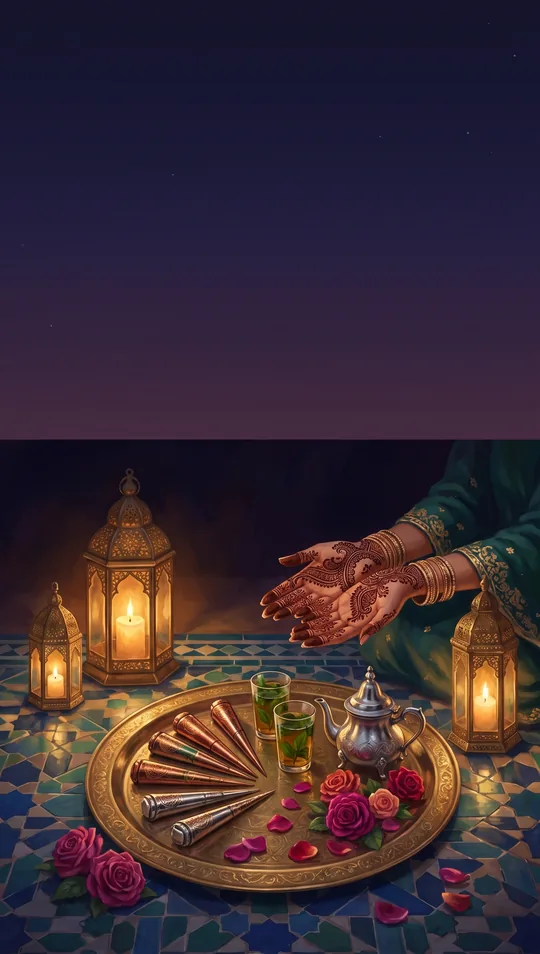
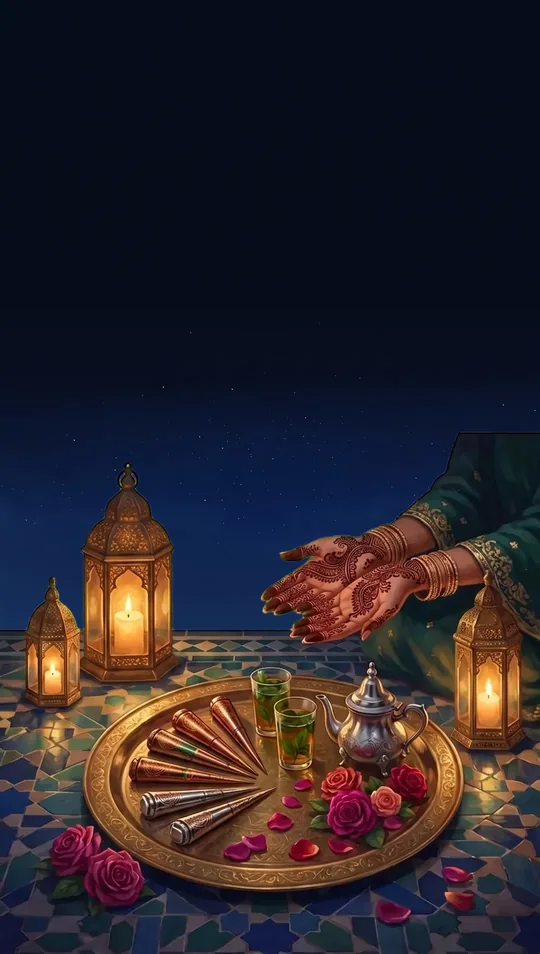
Carte « Scène par scène » : la vignette n'est plus coupée (fond du thème + sujet détouré)
La peinture nuits-2 gardait une bande sombre collée en ligne droite sur la scène, visible sur la carte
« Scène par scène » de l'accueil, dans le carrousel et dans le choix du format. La vignette (img/themes et
img/hd) est recomposée comme le moteur l'affiche désormais : fond calme du thème, sujet détouré posé entier au
bas de l'image. Outil business/tools/vignettes.py, cache des vignettes passé en v=7, og-sceau.jpg régénéré,
note dans la règle 10b.

Claude-Session: https://claude.ai/code/session_01UiQJJ8vYeH2uzX9VZmFkta

diff --git a/business/landing/formules/index.html b/business/landing/formules/index.html
@@ -40,7 +40,7 @@
         <h3>Essentiel</h3>
         <div class="amount">99 €</div>
         <p class="one">Un thème, vos textes, vos lieux parmi notre bibliothèque dessinée.</p>
-        <div class="strip"><figure><img src="/img/themes/conte-1.webp?v=6" alt="" loading="lazy"><figcaption>Accueil<small>prénoms, date</small></figcaption></figure><figure><img src="/img/lieux/conte-mairie.webp" alt="" loading="lazy"><figcaption>Mairie<small>notre bibliothèque</small></figcaption></figure><figure><img src="/img/lieux/conte-salle.webp" alt="" loading="lazy"><figcaption>Salle<small>notre bibliothèque</small></figcaption></figure><figure><img src="/img/themes/conte-4.webp?v=6" alt="" loading="lazy"><figcaption>Réponse<small>« Serez-vous des nôtres ? »</small></figcaption></figure></div><p class="strip-l">Vos lieux, choisis parmi 5 dessinés dans chaque thème.</p>
+        <div class="strip"><figure><img src="/img/themes/conte-1.webp?v=7" alt="" loading="lazy"><figcaption>Accueil<small>prénoms, date</small></figcaption></figure><figure><img src="/img/lieux/conte-mairie.webp" alt="" loading="lazy"><figcaption>Mairie<small>notre bibliothèque</small></figcaption></figure><figure><img src="/img/lieux/conte-salle.webp" alt="" loading="lazy"><figcaption>Salle<small>notre bibliothèque</small></figcaption></figure><figure><img src="/img/themes/conte-4.webp?v=7" alt="" loading="lazy"><figcaption>Réponse<small>« Serez-vous des nôtres ? »</small></figcaption></figure></div><p class="strip-l">Vos lieux, choisis parmi 5 dessinés dans chaque thème.</p>
         <ul class="feat"><li><svg viewBox="0 0 24 24" fill="none" stroke="currentColor" stroke-width="1.5" stroke-linecap="round" stroke-linejoin="round" aria-hidden="true"><path d="M12 3a9 9 0 1 0 0 18c1.2 0 2-.9 2-2 0-.6-.3-1-.6-1.4-.3-.4-.4-.8-.4-1.2 0-1 .9-1.9 2-1.9H17a4 4 0 0 0 4-4c0-4.4-4-7.5-9-7.5z"/><circle cx="7.5" cy="11" r="1"/><circle cx="10.5" cy="7.5" r="1"/><circle cx="15" cy="7.5" r="1"/></svg><span>Un thème parmi 5, dans le format de votre choix</span></li><li><svg viewBox="0 0 24 24" fill="none" stroke="currentColor" stroke-width="1.5" stroke-linecap="round" stroke-linejoin="round" aria-hidden="true"><rect x="3.5" y="5" width="17" height="15.5" rx="2"/><path d="M3.5 9.5h17M8 3v4M16 3v4"/></svg><span>2 événements</span></li><li><svg viewBox="0 0 24 24" fill="none" stroke="currentColor" stroke-width="1.5" stroke-linecap="round" stroke-linejoin="round" aria-hidden="true"><path d="M3 20h18M5 20V10l7-5 7 5v10"/><path d="M10 20v-5h4v5"/></svg><span>Vos lieux : notre bibliothèque dessinée (mairie, église, salle, jardin, plage)</span></li><li><svg viewBox="0 0 24 24" fill="none" stroke="currentColor" stroke-width="1.5" stroke-linecap="round" stroke-linejoin="round" aria-hidden="true"><rect x="3" y="6" width="18" height="13" rx="1.5"/><path d="m3.5 7 8.5 6.5L20.5 7"/><circle cx="12" cy="13.5" r="2.2"/></svg><span>Ouverture au sceau, musique, compte à rebours</span></li><li><svg viewBox="0 0 24 24" fill="none" stroke="currentColor" stroke-width="1.5" stroke-linecap="round" stroke-linejoin="round" aria-hidden="true"><path d="M4 5h16v11H9l-5 4z"/><path d="m9 10.5 2 2 4-4"/></svg><span>Réponses et tableau de bord</span></li><li><svg viewBox="0 0 24 24" fill="none" stroke="currentColor" stroke-width="1.5" stroke-linecap="round" stroke-linejoin="round" aria-hidden="true"><circle cx="12" cy="13" r="8"/><path d="M12 9v4l2.5 2.5M9.5 2.5h5"/></svg><span>Calendrier et itinéraire en un toucher</span></li><li><svg viewBox="0 0 24 24" fill="none" stroke="currentColor" stroke-width="1.5" stroke-linecap="round" stroke-linejoin="round" aria-hidden="true"><circle cx="12" cy="12" r="8.5"/><path d="M3.5 12h17M12 3.5c2.5 2.6 3.5 5.4 3.5 8.5s-1 5.9-3.5 8.5c-2.5-2.6-3.5-5.4-3.5-8.5s1-5.9 3.5-8.5z"/></svg><span>Français <b>ou</b> anglais</span></li><li><svg viewBox="0 0 24 24" fill="none" stroke="currentColor" stroke-width="1.5" stroke-linecap="round" stroke-linejoin="round" aria-hidden="true"><path d="M5 3h14M5 21h14M7 3c0 5 5 5 5 9s-5 4-5 9M17 3c0 5-5 5-5 9s5 4 5 9"/></svg><span>Prêt sous 48 h</span></li></ul>
         <a class="btn" href="/creer/?plan=essentiel" data-plan="essentiel">Choisir</a>
       </div>
@@ -48,7 +48,7 @@
         <h3>Signature <span class="tag">Recommandé</span></h3>
         <div class="amount">229 €</div>
         <p class="one">Votre vrai lieu, peint d'après votre photo, et un lien personnel par famille.</p>
-        <div class="strip"><figure><img src="/img/themes/conte-1.webp?v=6" alt="" loading="lazy"><figcaption>Accueil<small>par famille</small></figcaption></figure><figure><img src="/img/lieux/conte-mairie.webp" alt="" loading="lazy"><i class="ph" title="Peint d'après votre photo"><svg viewBox="0 0 24 24" fill="none" stroke="currentColor" stroke-width="1.6" stroke-linecap="round" stroke-linejoin="round"><path d="M4 8h3l2-2.5h6L17 8h3v11H4z"/><circle cx="12" cy="13" r="3.2"/></svg></i><figcaption>Votre mairie<small>d'après votre photo</small></figcaption></figure><figure><img src="/img/lieux/conte-salle.webp" alt="" loading="lazy"><figcaption>Salle<small>notre bibliothèque</small></figcaption></figure><figure><img src="/img/themes/conte-4.webp?v=6" alt="" loading="lazy"><figcaption>Réponse<small>FR et EN</small></figcaption></figure></div><p class="strip-l">Votre vrai lieu, peint d'après photo, et jusqu'à 6 événements.</p>
+        <div class="strip"><figure><img src="/img/themes/conte-1.webp?v=7" alt="" loading="lazy"><figcaption>Accueil<small>par famille</small></figcaption></figure><figure><img src="/img/lieux/conte-mairie.webp" alt="" loading="lazy"><i class="ph" title="Peint d'après votre photo"><svg viewBox="0 0 24 24" fill="none" stroke="currentColor" stroke-width="1.6" stroke-linecap="round" stroke-linejoin="round"><path d="M4 8h3l2-2.5h6L17 8h3v11H4z"/><circle cx="12" cy="13" r="3.2"/></svg></i><figcaption>Votre mairie<small>d'après votre photo</small></figcaption></figure><figure><img src="/img/lieux/conte-salle.webp" alt="" loading="lazy"><figcaption>Salle<small>notre bibliothèque</small></figcaption></figure><figure><img src="/img/themes/conte-4.webp?v=7" alt="" loading="lazy"><figcaption>Réponse<small>FR et EN</small></figcaption></figure></div><p class="strip-l">Votre vrai lieu, peint d'après photo, et jusqu'à 6 événements.</p>
         <ul class="feat"><li class="feat-incl"><b>Tout Essentiel</b><span>99 €</span><i>+</i></li><li><svg viewBox="0 0 24 24" fill="none" stroke="currentColor" stroke-width="1.5" stroke-linecap="round" stroke-linejoin="round" aria-hidden="true"><path d="M4 8h3l2-2.5h6L17 8h3v11H4z"/><circle cx="12" cy="13" r="3.2"/></svg><span><b>Votre vrai lieu, peint d'après votre photo</b></span></li><li><svg viewBox="0 0 24 24" fill="none" stroke="currentColor" stroke-width="1.5" stroke-linecap="round" stroke-linejoin="round" aria-hidden="true"><rect x="3.5" y="5" width="17" height="15.5" rx="2"/><path d="M3.5 9.5h17M8 3v4M16 3v4"/></svg><span>Jusqu'à 6 événements</span></li><li><svg viewBox="0 0 24 24" fill="none" stroke="currentColor" stroke-width="1.5" stroke-linecap="round" stroke-linejoin="round" aria-hidden="true"><circle cx="9" cy="8" r="3"/><circle cx="17" cy="9" r="2.4"/><path d="M3.5 19a5.5 5.5 0 0 1 11 0M14.5 19a4 4 0 0 1 6.5-3"/></svg><span>Un lien personnel par famille</span></li><li><svg viewBox="0 0 24 24" fill="none" stroke="currentColor" stroke-width="1.5" stroke-linecap="round" stroke-linejoin="round" aria-hidden="true"><circle cx="12" cy="12" r="8.5"/><path d="M3.5 12h17M12 3.5c2.5 2.6 3.5 5.4 3.5 8.5s-1 5.9-3.5 8.5c-2.5-2.6-3.5-5.4-3.5-8.5s1-5.9 3.5-8.5z"/></svg><span>Français <b>et</b> anglais</span></li><li><svg viewBox="0 0 24 24" fill="none" stroke="currentColor" stroke-width="1.5" stroke-linecap="round" stroke-linejoin="round" aria-hidden="true"><rect x="7" y="2.5" width="10" height="19" rx="2"/><path d="m11 9 3.5 2.5L11 14z"/></svg><span>Save-the-date et vidéo pour vos statuts</span></li><li><svg viewBox="0 0 24 24" fill="none" stroke="currentColor" stroke-width="1.5" stroke-linecap="round" stroke-linejoin="round" aria-hidden="true"><path d="M5 3h14M5 21h14M7 3c0 5 5 5 5 9s-5 4-5 9M17 3c0 5-5 5-5 9s5 4 5 9"/></svg><span>Prêt en 3 à 5 jours</span></li></ul>
         <a class="btn solid" href="/creer/?plan=signature" data-plan="signature">Choisir</a>
       </div>
@@ -56,7 +56,7 @@
         <h3>Couture</h3>
         <div class="amount">590 € <small>et plus</small></div>
         <p class="one">Un univers créé pour vous, tous vos lieux peints, une direction artistique dédiée.</p>
-        <div class="strip"><figure><img src="/img/themes/nuits-1.webp?v=6" alt="" loading="lazy"><i class="ph" title="Peint d'après votre photo"><svg viewBox="0 0 24 24" fill="none" stroke="currentColor" stroke-width="1.6" stroke-linecap="round" stroke-linejoin="round"><path d="M4 8h3l2-2.5h6L17 8h3v11H4z"/><circle cx="12" cy="13" r="3.2"/></svg></i><figcaption>Accueil<small>votre style</small></figcaption></figure><figure><img src="/img/lieux/nuits-mairie.webp" alt="" loading="lazy"><i class="ph" title="Peint d'après votre photo"><svg viewBox="0 0 24 24" fill="none" stroke="currentColor" stroke-width="1.6" stroke-linecap="round" stroke-linejoin="round"><path d="M4 8h3l2-2.5h6L17 8h3v11H4z"/><circle cx="12" cy="13" r="3.2"/></svg></i><figcaption>Votre mairie<small>d'après photo</small></figcaption></figure><figure><img src="/img/lieux/nuits-salle.webp" alt="" loading="lazy"><i class="ph" title="Peint d'après votre photo"><svg viewBox="0 0 24 24" fill="none" stroke="currentColor" stroke-width="1.6" stroke-linecap="round" stroke-linejoin="round"><path d="M4 8h3l2-2.5h6L17 8h3v11H4z"/><circle cx="12" cy="13" r="3.2"/></svg></i><figcaption>Votre salle<small>d'après photo</small></figcaption></figure><figure><img src="/img/themes/nuits-4.webp?v=6" alt="" loading="lazy"><figcaption>Réponse<small>toutes langues</small></figcaption></figure></div><p class="strip-l">Un univers dessiné pour vous, tous vos lieux peints.</p>
+        <div class="strip"><figure><img src="/img/themes/nuits-1.webp?v=7" alt="" loading="lazy"><i class="ph" title="Peint d'après votre photo"><svg viewBox="0 0 24 24" fill="none" stroke="currentColor" stroke-width="1.6" stroke-linecap="round" stroke-linejoin="round"><path d="M4 8h3l2-2.5h6L17 8h3v11H4z"/><circle cx="12" cy="13" r="3.2"/></svg></i><figcaption>Accueil<small>votre style</small></figcaption></figure><figure><img src="/img/lieux/nuits-mairie.webp" alt="" loading="lazy"><i class="ph" title="Peint d'après votre photo"><svg viewBox="0 0 24 24" fill="none" stroke="currentColor" stroke-width="1.6" stroke-linecap="round" stroke-linejoin="round"><path d="M4 8h3l2-2.5h6L17 8h3v11H4z"/><circle cx="12" cy="13" r="3.2"/></svg></i><figcaption>Votre mairie<small>d'après photo</small></figcaption></figure><figure><img src="/img/lieux/nuits-salle.webp" alt="" loading="lazy"><i class="ph" title="Peint d'après votre photo"><svg viewBox="0 0 24 24" fill="none" stroke="currentColor" stroke-width="1.6" stroke-linecap="round" stroke-linejoin="round"><path d="M4 8h3l2-2.5h6L17 8h3v11H4z"/><circle cx="12" cy="13" r="3.2"/></svg></i><figcaption>Votre salle<small>d'après photo</small></figcaption></figure><figure><img src="/img/themes/nuits-4.webp?v=7" alt="" loading="lazy"><figcaption>Réponse<small>toutes langues</small></figcaption></figure></div><p class="strip-l">Un univers dessiné pour vous, tous vos lieux peints.</p>
         <ul class="feat"><li class="feat-incl"><b>Tout Signature</b><span>229 €</span><i>+</i></li><li><svg viewBox="0 0 24 24" fill="none" stroke="currentColor" stroke-width="1.5" stroke-linecap="round" stroke-linejoin="round" aria-hidden="true"><path d="M4 20h4L19 9l-4-4L4 16z"/><path d="m13.5 6.5 4 4"/></svg><span>Un univers dessiné pour vous</span></li><li><svg viewBox="0 0 24 24" fill="none" stroke="currentColor" stroke-width="1.5" stroke-linecap="round" stroke-linejoin="round" aria-hidden="true"><path d="M4 8h3l2-2.5h6L17 8h3v11H4z"/><circle cx="12" cy="13" r="3.2"/></svg><span><b>Tous</b> vos lieux peints d'après photos</span></li><li><svg viewBox="0 0 24 24" fill="none" stroke="currentColor" stroke-width="1.5" stroke-linecap="round" stroke-linejoin="round" aria-hidden="true"><path d="M7 9c-2 0-3.5 1.3-3.5 3S5 15 7 15c3.5 0 6.5-6 10-6 2 0 3.5 1.3 3.5 3S19 15 17 15c-3.5 0-6.5-6-10-6z"/></svg><span>Événements et langues illimités</span></li><li><svg viewBox="0 0 24 24" fill="none" stroke="currentColor" stroke-width="1.5" stroke-linecap="round" stroke-linejoin="round" aria-hidden="true"><rect x="3" y="7" width="18" height="13" rx="2"/><path d="M8 7V5a2 2 0 0 1 2-2h4a2 2 0 0 1 2 2v2M3 12h18"/></svg><span>Accès pour votre wedding planner</span></li><li><svg viewBox="0 0 24 24" fill="none" stroke="currentColor" stroke-width="1.5" stroke-linecap="round" stroke-linejoin="round" aria-hidden="true"><path d="M12 20h9"/><path d="M16.5 3.5a2.1 2.1 0 0 1 3 3L7 19l-4 1 1-4z"/></svg><span>Retouches illimitées pendant 3 semaines</span></li><li><svg viewBox="0 0 24 24" fill="none" stroke="currentColor" stroke-width="1.5" stroke-linecap="round" stroke-linejoin="round" aria-hidden="true"><path d="M5 3h14M5 21h14M7 3c0 5 5 5 5 9s-5 4-5 9M17 3c0 5-5 5-5 9s5 4 5 9"/></svg><span>Calendrier fixé ensemble</span></li></ul>
         <a class="btn" href="/contact/?plan=couture" data-plan="couture">Nous écrire</a>
       </div>

diff --git a/business/site/formules/index.html b/business/site/formules/index.html
@@ -40,7 +40,7 @@
         <h3>Essentiel</h3>
         <div class="amount">99 €</div>
         <p class="one">Un thème, vos textes, vos lieux parmi notre bibliothèque dessinée.</p>
-        <div class="strip"><figure><img src="/img/themes/conte-1.webp?v=6" alt="" loading="lazy"><figcaption>Accueil<small>prénoms, date</small></figcaption></figure><figure><img src="/img/lieux/conte-mairie.webp" alt="" loading="lazy"><figcaption>Mairie<small>notre bibliothèque</small></figcaption></figure><figure><img src="/img/lieux/conte-salle.webp" alt="" loading="lazy"><figcaption>Salle<small>notre bibliothèque</small></figcaption></figure><figure><img src="/img/themes/conte-4.webp?v=6" alt="" loading="lazy"><figcaption>Réponse<small>« Serez-vous des nôtres ? »</small></figcaption></figure></div><p class="strip-l">Vos lieux, choisis parmi 5 dessinés dans chaque thème.</p>
+        <div class="strip"><figure><img src="/img/themes/conte-1.webp?v=7" alt="" loading="lazy"><figcaption>Accueil<small>prénoms, date</small></figcaption></figure><figure><img src="/img/lieux/conte-mairie.webp" alt="" loading="lazy"><figcaption>Mairie<small>notre bibliothèque</small></figcaption></figure><figure><img src="/img/lieux/conte-salle.webp" alt="" loading="lazy"><figcaption>Salle<small>notre bibliothèque</small></figcaption></figure><figure><img src="/img/themes/conte-4.webp?v=7" alt="" loading="lazy"><figcaption>Réponse<small>« Serez-vous des nôtres ? »</small></figcaption></figure></div><p class="strip-l">Vos lieux, choisis parmi 5 dessinés dans chaque thème.</p>
         <ul class="feat"><li><svg viewBox="0 0 24 24" fill="none" stroke="currentColor" stroke-width="1.5" stroke-linecap="round" stroke-linejoin="round" aria-hidden="true"><path d="M12 3a9 9 0 1 0 0 18c1.2 0 2-.9 2-2 0-.6-.3-1-.6-1.4-.3-.4-.4-.8-.4-1.2 0-1 .9-1.9 2-1.9H17a4 4 0 0 0 4-4c0-4.4-4-7.5-9-7.5z"/><circle cx="7.5" cy="11" r="1"/><circle cx="10.5" cy="7.5" r="1"/><circle cx="15" cy="7.5" r="1"/></svg><span>Un thème parmi 5, dans le format de votre choix</span></li><li><svg viewBox="0 0 24 24" fill="none" stroke="currentColor" stroke-width="1.5" stroke-linecap="round" stroke-linejoin="round" aria-hidden="true"><rect x="3.5" y="5" width="17" height="15.5" rx="2"/><path d="M3.5 9.5h17M8 3v4M16 3v4"/></svg><span>2 événements</span></li><li><svg viewBox="0 0 24 24" fill="none" stroke="currentColor" stroke-width="1.5" stroke-linecap="round" stroke-linejoin="round" aria-hidden="true"><path d="M3 20h18M5 20V10l7-5 7 5v10"/><path d="M10 20v-5h4v5"/></svg><span>Vos lieux : notre bibliothèque dessinée (mairie, église, salle, jardin, plage)</span></li><li><svg viewBox="0 0 24 24" fill="none" stroke="currentColor" stroke-width="1.5" stroke-linecap="round" stroke-linejoin="round" aria-hidden="true"><rect x="3" y="6" width="18" height="13" rx="1.5"/><path d="m3.5 7 8.5 6.5L20.5 7"/><circle cx="12" cy="13.5" r="2.2"/></svg><span>Ouverture au sceau, musique, compte à rebours</span></li><li><svg viewBox="0 0 24 24" fill="none" stroke="currentColor" stroke-width="1.5" stroke-linecap="round" stroke-linejoin="round" aria-hidden="true"><path d="M4 5h16v11H9l-5 4z"/><path d="m9 10.5 2 2 4-4"/></svg><span>Réponses et tableau de bord</span></li><li><svg viewBox="0 0 24 24" fill="none" stroke="currentColor" stroke-width="1.5" stroke-linecap="round" stroke-linejoin="round" aria-hidden="true"><circle cx="12" cy="13" r="8"/><path d="M12 9v4l2.5 2.5M9.5 2.5h5"/></svg><span>Calendrier et itinéraire en un toucher</span></li><li><svg viewBox="0 0 24 24" fill="none" stroke="currentColor" stroke-width="1.5" stroke-linecap="round" stroke-linejoin="round" aria-hidden="true"><circle cx="12" cy="12" r="8.5"/><path d="M3.5 12h17M12 3.5c2.5 2.6 3.5 5.4 3.5 8.5s-1 5.9-3.5 8.5c-2.5-2.6-3.5-5.4-3.5-8.5s1-5.9 3.5-8.5z"/></svg><span>Français <b>ou</b> anglais</span></li><li><svg viewBox="0 0 24 24" fill="none" stroke="currentColor" stroke-width="1.5" stroke-linecap="round" stroke-linejoin="round" aria-hidden="true"><path d="M5 3h14M5 21h14M7 3c0 5 5 5 5 9s-5 4-5 9M17 3c0 5-5 5-5 9s5 4 5 9"/></svg><span>Prêt sous 48 h</span></li></ul>
         <a class="btn" href="/creer/?plan=essentiel" data-plan="essentiel">Choisir</a>
       </div>
@@ -48,7 +48,7 @@
         <h3>Signature <span class="tag">Recommandé</span></h3>
         <div class="amount">229 €</div>
         <p class="one">Votre vrai lieu, peint d'après votre photo, et un lien personnel par famille.</p>
-        <div class="strip"><figure><img src="/img/themes/conte-1.webp?v=6" alt="" loading="lazy"><figcaption>Accueil<small>par famille</small></figcaption></figure><figure><img src="/img/lieux/conte-mairie.webp" alt="" loading="lazy"><i class="ph" title="Peint d'après votre photo"><svg viewBox="0 0 24 24" fill="none" stroke="currentColor" stroke-width="1.6" stroke-linecap="round" stroke-linejoin="round"><path d="M4 8h3l2-2.5h6L17 8h3v11H4z"/><circle cx="12" cy="13" r="3.2"/></svg></i><figcaption>Votre mairie<small>d'après votre photo</small></figcaption></figure><figure><img src="/img/lieux/conte-salle.webp" alt="" loading="lazy"><figcaption>Salle<small>notre bibliothèque</small></figcaption></figure><figure><img src="/img/themes/conte-4.webp?v=6" alt="" loading="lazy"><figcaption>Réponse<small>FR et EN</small></figcaption></figure></div><p class="strip-l">Votre vrai lieu, peint d'après photo, et jusqu'à 6 événements.</p>
+        <div class="strip"><figure><img src="/img/themes/conte-1.webp?v=7" alt="" loading="lazy"><figcaption>Accueil<small>par famille</small></figcaption></figure><figure><img src="/img/lieux/conte-mairie.webp" alt="" loading="lazy"><i class="ph" title="Peint d'après votre photo"><svg viewBox="0 0 24 24" fill="none" stroke="currentColor" stroke-width="1.6" stroke-linecap="round" stroke-linejoin="round"><path d="M4 8h3l2-2.5h6L17 8h3v11H4z"/><circle cx="12" cy="13" r="3.2"/></svg></i><figcaption>Votre mairie<small>d'après votre photo</small></figcaption></figure><figure><img src="/img/lieux/conte-salle.webp" alt="" loading="lazy"><figcaption>Salle<small>notre bibliothèque</small></figcaption></figure><figure><img src="/img/themes/conte-4.webp?v=7" alt="" loading="lazy"><figcaption>Réponse<small>FR et EN</small></figcaption></figure></div><p class="strip-l">Votre vrai lieu, peint d'après photo, et jusqu'à 6 événements.</p>
         <ul class="feat"><li class="feat-incl"><b>Tout Essentiel</b><span>99 €</span><i>+</i></li><li><svg viewBox="0 0 24 24" fill="none" stroke="currentColor" stroke-width="1.5" stroke-linecap="round" stroke-linejoin="round" aria-hidden="true"><path d="M4 8h3l2-2.5h6L17 8h3v11H4z"/><circle cx="12" cy="13" r="3.2"/></svg><span><b>Votre vrai lieu, peint d'après votre photo</b></span></li><li><svg viewBox="0 0 24 24" fill="none" stroke="currentColor" stroke-width="1.5" stroke-linecap="round" stroke-linejoin="round" aria-hidden="true"><rect x="3.5" y="5" width="17" height="15.5" rx="2"/><path d="M3.5 9.5h17M8 3v4M16 3v4"/></svg><span>Jusqu'à 6 événements</span></li><li><svg viewBox="0 0 24 24" fill="none" stroke="currentColor" stroke-width="1.5" stroke-linecap="round" stroke-linejoin="round" aria-hidden="true"><circle cx="9" cy="8" r="3"/><circle cx="17" cy="9" r="2.4"/><path d="M3.5 19a5.5 5.5 0 0 1 11 0M14.5 19a4 4 0 0 1 6.5-3"/></svg><span>Un lien personnel par famille</span></li><li><svg viewBox="0 0 24 24" fill="none" stroke="currentColor" stroke-width="1.5" stroke-linecap="round" stroke-linejoin="round" aria-hidden="true"><circle cx="12" cy="12" r="8.5"/><path d="M3.5 12h17M12 3.5c2.5 2.6 3.5 5.4 3.5 8.5s-1 5.9-3.5 8.5c-2.5-2.6-3.5-5.4-3.5-8.5s1-5.9 3.5-8.5z"/></svg><span>Français <b>et</b> anglais</span></li><li><svg viewBox="0 0 24 24" fill="none" stroke="currentColor" stroke-width="1.5" stroke-linecap="round" stroke-linejoin="round" aria-hidden="true"><rect x="7" y="2.5" width="10" height="19" rx="2"/><path d="m11 9 3.5 2.5L11 14z"/></svg><span>Save-the-date et vidéo pour vos statuts</span></li><li><svg viewBox="0 0 24 24" fill="none" stroke="currentColor" stroke-width="1.5" stroke-linecap="round" stroke-linejoin="round" aria-hidden="true"><path d="M5 3h14M5 21h14M7 3c0 5 5 5 5 9s-5 4-5 9M17 3c0 5-5 5-5 9s5 4 5 9"/></svg><span>Prêt en 3 à 5 jours</span></li></ul>
         <a class="btn solid" href="/creer/?plan=signature" data-plan="signature">Choisir</a>
       </div>
@@ -56,7 +56,7 @@
         <h3>Couture</h3>
         <div class="amount">590 € <small>et plus</small></div>
         <p class="one">Un univers créé pour vous, tous vos lieux peints, une direction artistique dédiée.</p>
-        <div class="strip"><figure><img src="/img/themes/nuits-1.webp?v=6" alt="" loading="lazy"><i class="ph" title="Peint d'après votre photo"><svg viewBox="0 0 24 24" fill="none" stroke="currentColor" stroke-width="1.6" stroke-linecap="round" stroke-linejoin="round"><path d="M4 8h3l2-2.5h6L17 8h3v11H4z"/><circle cx="12" cy="13" r="3.2"/></svg></i><figcaption>Accueil<small>votre style</small></figcaption></figure><figure><img src="/img/lieux/nuits-mairie.webp" alt="" loading="lazy"><i class="ph" title="Peint d'après votre photo"><svg viewBox="0 0 24 24" fill="none" stroke="currentColor" stroke-width="1.6" stroke-linecap="round" stroke-linejoin="round"><path d="M4 8h3l2-2.5h6L17 8h3v11H4z"/><circle cx="12" cy="13" r="3.2"/></svg></i><figcaption>Votre mairie<small>d'après photo</small></figcaption></figure><figure><img src="/img/lieux/nuits-salle.webp" alt="" loading="lazy"><i class="ph" title="Peint d'après votre photo"><svg viewBox="0 0 24 24" fill="none" stroke="currentColor" stroke-width="1.6" stroke-linecap="round" stroke-linejoin="round"><path d="M4 8h3l2-2.5h6L17 8h3v11H4z"/><circle cx="12" cy="13" r="3.2"/></svg></i><figcaption>Votre salle<small>d'après photo</small></figcaption></figure><figure><img src="/img/themes/nuits-4.webp?v=6" alt="" loading="lazy"><figcaption>Réponse<small>toutes langues</small></figcaption></figure></div><p class="strip-l">Un univers dessiné pour vous, tous vos lieux peints.</p>
+        <div class="strip"><figure><img src="/img/themes/nuits-1.webp?v=7" alt="" loading="lazy"><i class="ph" title="Peint d'après votre photo"><svg viewBox="0 0 24 24" fill="none" stroke="currentColor" stroke-width="1.6" stroke-linecap="round" stroke-linejoin="round"><path d="M4 8h3l2-2.5h6L17 8h3v11H4z"/><circle cx="12" cy="13" r="3.2"/></svg></i><figcaption>Accueil<small>votre style</small></figcaption></figure><figure><img src="/img/lieux/nuits-mairie.webp" alt="" loading="lazy"><i class="ph" title="Peint d'après votre photo"><svg viewBox="0 0 24 24" fill="none" stroke="currentColor" stroke-width="1.6" stroke-linecap="round" stroke-linejoin="round"><path d="M4 8h3l2-2.5h6L17 8h3v11H4z"/><circle cx="12" cy="13" r="3.2"/></svg></i><figcaption>Votre mairie<small>d'après photo</small></figcaption></figure><figure><img src="/img/lieux/nuits-salle.webp" alt="" loading="lazy"><i class="ph" title="Peint d'après votre photo"><svg viewBox="0 0 24 24" fill="none" stroke="currentColor" stroke-width="1.6" stroke-linecap="round" stroke-linejoin="round"><path d="M4 8h3l2-2.5h6L17 8h3v11H4z"/><circle cx="12" cy="13" r="3.2"/></svg></i><figcaption>Votre salle<small>d'après photo</small></figcaption></figure><figure><img src="/img/themes/nuits-4.webp?v=7" alt="" loading="lazy"><figcaption>Réponse<small>toutes langues</small></figcaption></figure></div><p class="strip-l">Un univers dessiné pour vous, tous vos lieux peints.</p>
         <ul class="feat"><li class="feat-incl"><b>Tout Signature</b><span>229 €</span><i>+</i></li><li><svg viewBox="0 0 24 24" fill="none" stroke="currentColor" stroke-width="1.5" stroke-linecap="round" stroke-linejoin="round" aria-hidden="true"><path d="M4 20h4L19 9l-4-4L4 16z"/><path d="m13.5 6.5 4 4"/></svg><span>Un univers dessiné pour vous</span></li><li><svg viewBox="0 0 24 24" fill="none" stroke="currentColor" stroke-width="1.5" stroke-linecap="round" stroke-linejoin="round" aria-hidden="true"><path d="M4 8h3l2-2.5h6L17 8h3v11H4z"/><circle cx="12" cy="13" r="3.2"/></svg><span><b>Tous</b> vos lieux peints d'après photos</span></li><li><svg viewBox="0 0 24 24" fill="none" stroke="currentColor" stroke-width="1.5" stroke-linecap="round" stroke-linejoin="round" aria-hidden="true"><path d="M7 9c-2 0-3.5 1.3-3.5 3S5 15 7 15c3.5 0 6.5-6 10-6 2 0 3.5 1.3 3.5 3S19 15 17 15c-3.5 0-6.5-6-10-6z"/></svg><span>Événements et langues illimités</span></li><li><svg viewBox="0 0 24 24" fill="none" stroke="currentColor" stroke-width="1.5" stroke-linecap="round" stroke-linejoin="round" aria-hidden="true"><rect x="3" y="7" width="18" height="13" rx="2"/><path d="M8 7V5a2 2 0 0 1 2-2h4a2 2 0 0 1 2 2v2M3 12h18"/></svg><span>Accès pour votre wedding planner</span></li><li><svg viewBox="0 0 24 24" fill="none" stroke="currentColor" stroke-width="1.5" stroke-linecap="round" stroke-linejoin="round" aria-hidden="true"><path d="M12 20h9"/><path d="M16.5 3.5a2.1 2.1 0 0 1 3 3L7 19l-4 1 1-4z"/></svg><span>Retouches illimitées pendant 3 semaines</span></li><li><svg viewBox="0 0 24 24" fill="none" stroke="currentColor" stroke-width="1.5" stroke-linecap="round" stroke-linejoin="round" aria-hidden="true"><path d="M5 3h14M5 21h14M7 3c0 5 5 5 5 9s-5 4-5 9M17 3c0 5-5 5-5 9s5 4 5 9"/></svg><span>Calendrier fixé ensemble</span></li></ul>
         <a class="btn" href="/contact/?plan=couture" data-plan="couture">Nous écrire</a>
       </div>

diff --git a/business/landing/vitrine.js b/business/landing/vitrine.js
@@ -108,7 +108,7 @@
   const CREAS=LONGS.filter(l=>KEYS.includes(l.k)).map(l=>{ const t=THEMES[l.k]; return Object.assign({},l,{kind:'long',label:t.name,desc:l.couple+' · '+l.desc,href:'/d/'+l.slug+'/',tag:t.name,font:t.font,size:t.size,italic:t.italic,upper:t.upper,stack:t.stack,img:()=>`/img/reel/long-${l.k}.webp`}); });
   // carrousel de l'accueil : un thème qui a sa démo en grand tableau y passe sous cette forme, pas deux fois
   KEYS.filter(k=>!LONGS.some(l=>l.k===k)).forEach(k=>{ const t=THEMES[k], d=DEMOS0.find(x=>x.theme===k&&x.slug!=='yasmine-karim');
-    CREAS.push(Object.assign({},t,{kind:'pages',k,label:t.name,desc:(t.style!==t.name?t.style+' · ':'')+t.short,href:d?'/d/'+d.slug+'/':'',tag:t.name,img:i=>`/img/themes/${k}-${i}.webp?v=6`})); });
+    CREAS.push(Object.assign({},t,{kind:'pages',k,label:t.name,desc:(t.style!==t.name?t.style+' · ':'')+t.short,href:d?'/d/'+d.slug+'/':'',tag:t.name,img:i=>`/img/themes/${k}-${i}.webp?v=7`})); });
   // notre faire-part reel : les vrais lieux du couple, peints et animes (demo Yasmine & Karim)
   CREAS.push({kind:'pages',k:'yk',label:'Yasmine & Karim',desc:'Leurs vrais lieux, peints et animés : mairie, salle, ville',href:'/d/yasmine-karim/',tag:'Lieux réels peints',
     couple:'Yasmine & Karim',font:'"Great Vibes",cursive',color:'#2c2114',ey:'#8a6a2c',tx:'#5a4632',light:true,img:i=>`/img/reel/yk-${i}.webp`,
@@ -154,7 +154,7 @@
   // une carte par thème, avec ses deux formats : « scène par scène » (démo pages) et « grand tableau » (démo long)
   const card=(k)=>{ const t=THEMES[k], ds=DEMOS.find(x=>x.theme===k&&x.layout!=='long'), dl=DEMOS.find(x=>x.theme===k&&x.layout==='long');
     const m=document.createElement('div'); m.className='model'; m.dataset.theme=k; m.dataset.style=t.style;
-    m.innerHTML=`<a class="pic" href="/d/${esc((ds||dl).slug)}/" target="_blank" rel="noopener" aria-label="Ouvrir le faire-part ${esc(t.name)}"><img src="/img/themes/${k}-1.webp?v=6" alt="" loading="lazy"><img class="pic2" src="/img/themes/${k}-2.webp?v=6" alt="" loading="lazy" aria-hidden="true"><span class="cn" style="${esc(`font-family:${t.font};${t.italic?'font-style:italic;':''}${t.upper?'text-transform:uppercase;letter-spacing:.1em;font-size:19px;':''}`)}">${esc(t.couple)}</span></a><div class="meta"><div><h3>${esc(t.name)}</h3><p class="style">${esc(t.style+' · '+t.short)}</p></div>
+    m.innerHTML=`<a class="pic" href="/d/${esc((ds||dl).slug)}/" target="_blank" rel="noopener" aria-label="Ouvrir le faire-part ${esc(t.name)}"><img src="/img/themes/${k}-1.webp?v=7" alt="" loading="lazy"><img class="pic2" src="/img/themes/${k}-2.webp?v=7" alt="" loading="lazy" aria-hidden="true"><span class="cn" style="${esc(`font-family:${t.font};${t.italic?'font-style:italic;':''}${t.upper?'text-transform:uppercase;letter-spacing:.1em;font-size:19px;':''}`)}">${esc(t.couple)}</span></a><div class="meta"><div><h3>${esc(t.name)}</h3><p class="style">${esc(t.style+' · '+t.short)}</p></div>
       <div class="fmts">${ds?`<a href="/d/${esc(ds.slug)}/" target="_blank" rel="noopener"><b>Scène par scène</b><span>${esc(ds.couple)}</span></a>`:''}${dl?`<a href="/d/${esc(dl.slug)}/" target="_blank" rel="noopener"><b>Grand tableau</b><span>${esc(dl.couple)}</span></a>`:''}</div>
       <div class="acts"><a class="go" href="/creer/?theme=${esc(k)}">Composer →</a></div></div>`;
     models.appendChild(m); };
@@ -194,10 +194,10 @@
   opt($('cOpen'),OPENS,'op','',(b,o)=>{ b.className='op-card'; b.innerHTML=`<b>${o.name}</b><small>${o.sub}</small>`; });
   opt($('cReveal'),REVEALS,'rvl','',(b,o)=>{ b.className='op-card'; b.innerHTML=`<b>${o.name}</b><small>${o.sub}</small>`; });
   $('cReveal').addEventListener('click',e=>{ if(e.target.closest('button')) $('cpScroll').scrollTo({top:0,behavior:'smooth'}); });
-  opt($('cStyles'),KEYS,'k','',(b,k)=>{ const t=THEMES[k]; b.className='th'; b.innerHTML=`<span style="background-image:url('/img/themes/${k}-1.webp?v=6')"></span>${esc(t.name)}`; });
+  opt($('cStyles'),KEYS,'k','',(b,k)=>{ const t=THEMES[k]; b.className='th'; b.innerHTML=`<span style="background-image:url('/img/themes/${k}-1.webp?v=7')"></span>${esc(t.name)}`; });
   // les deux formats, annoncés dès le début : scène par scène (un événement par écran) ou grand tableau (un seul tableau qu'on descend)
   const FMTS=[{id:'scenes',name:'Scène par scène',sub:'Un événement par écran, vos lieux en plein écran'},{id:'long',name:'Grand tableau',sub:'Un seul tableau qu’on descend, vos lieux dans des cadres peints'}];
-  opt($('cFmt'),FMTS,'fmt','',(b,o)=>{ b.className='op-card fmt'; b.innerHTML=`<i style="background-image:url('${o.id==='long'?'/img/reel/long-nuits.webp':'/img/themes/nuits-2.webp?v=6'}')"></i><b>${o.name}</b><small>${o.sub}</small>`; });
+  opt($('cFmt'),FMTS,'fmt','',(b,o)=>{ b.className='op-card fmt'; b.innerHTML=`<i style="background-image:url('${o.id==='long'?'/img/reel/long-nuits.webp':'/img/themes/nuits-2.webp?v=7'}')"></i><b>${o.name}</b><small>${o.sub}</small>`; });
   const PLANSUB={essentiel:'2 événements, lieux de notre bibliothèque',signature:'+ votre lieu peint d’après photo, un lien par famille',couture:'tout sur mesure, on vous écrit'};
   opt($('cPlan'),Object.keys(PLANS),'plan','',(b,id)=>{ b.className='op-card'; b.innerHTML=`<b>${PLANS[id].name} · ${PLANS[id].price}</b><small>${PLANSUB[id]}</small>`; });
   $('cPlan').addEventListener('click',e=>{ if(e.target.closest('button')) C.planPicked=true; },true); // avant le clic du bouton (capture) : un choix de la main de l'utilisateur n'est plus changé
@@ -268,7 +268,7 @@
       $('wz2Sub').textContent=long?'Dans le grand tableau, chaque événement a son cadre peint : choisissez le lieu qui s’y affiche (notre bibliothèque, ou votre photo), ou laissez le cadre sans lieu.':'Pour chaque événement : un écran simple (votre texte sur le fond du tableau), ou une scène de votre lieu, dessinée dans le thème.';
       document.querySelectorAll('#cStory [data-bg="simple"]').forEach(b=>b.innerHTML=long?'Sans lieu<small>Le cadre peint du thème</small>':'Écran simple<small>Texte sur le fond</small>');
       document.querySelectorAll('#cStory [data-bg="scene"]').forEach(b=>b.innerHTML=long?'Un lieu<small>Dans le cadre</small>':'Scène<small>Votre lieu dessiné</small>'); }
-    $('cFmt').querySelectorAll('button').forEach(b=>{ b.firstChild.style.backgroundImage=`url('${b.dataset.id==='long'?`/img/reel/long-${C.k}.webp`:`/img/themes/${C.k}-2.webp?v=6`}')`; });
+    $('cFmt').querySelectorAll('button').forEach(b=>{ b.firstChild.style.backgroundImage=`url('${b.dataset.id==='long'?`/img/reel/long-${C.k}.webp`:`/img/themes/${C.k}-2.webp?v=7`}')`; });
     $('cStory').querySelectorAll('li.ev').forEach(l=>{ const e=C.ev[+l.dataset.i];
       l.querySelectorAll('[data-bg]').forEach(b=>b.setAttribute('aria-pressed',b.dataset.bg===e.bg));
       l.querySelector('.lieux').hidden=e.bg!=='scene';
@@ -293,7 +293,7 @@
       // un numéro = scène du thème ; un nom = lieu de la bibliothèque, ou « fond » pour un écran simple
       // calque : le sujet détouré est posé entier au bas de l'écran sur le fond du thème (même rendu que le moteur)
       const hasCal=((window.SCEAU_CALQUES||{})[C.k]||[]).includes(String(img));
-      const src=hasCal?`/img/lieux/${C.k}-fond.webp`:typeof img==='number'?`/img/themes/${C.k}-${img}.webp?v=6`:`/img/lieux/${C.k}-${img}.webp`;
+      const src=hasCal?`/img/lieux/${C.k}-fond.webp`:typeof img==='number'?`/img/themes/${C.k}-${img}.webp?v=7`:`/img/lieux/${C.k}-${img}.webp`;
       const sub=hasCal?`/img/calques/${C.k}-${img}.webp?v=7`:'';
       return {lt,c,html:h=>`<section class="pv-sc${lt?' light':''}" data-img="${esc(src)}" data-sub="${esc(sub)}" style="${esc(extra||'')}">${h(c)}</section>`}; };
     const pages=[], rv=C.rvl!=='non'?C.rvl:null;

diff --git a/business/site/vitrine.js b/business/site/vitrine.js
@@ -108,7 +108,7 @@
   const CREAS=LONGS.filter(l=>KEYS.includes(l.k)).map(l=>{ const t=THEMES[l.k]; return Object.assign({},l,{kind:'long',label:t.name,desc:l.couple+' · '+l.desc,href:'/d/'+l.slug+'/',tag:t.name,font:t.font,size:t.size,italic:t.italic,upper:t.upper,stack:t.stack,img:()=>`/img/reel/long-${l.k}.webp`}); });
   // carrousel de l'accueil : un thème qui a sa démo en grand tableau y passe sous cette forme, pas deux fois
   KEYS.filter(k=>!LONGS.some(l=>l.k===k)).forEach(k=>{ const t=THEMES[k], d=DEMOS0.find(x=>x.theme===k&&x.slug!=='yasmine-karim');
-    CREAS.push(Object.assign({},t,{kind:'pages',k,label:t.name,desc:(t.style!==t.name?t.style+' · ':'')+t.short,href:d?'/d/'+d.slug+'/':'',tag:t.name,img:i=>`/img/themes/${k}-${i}.webp?v=6`})); });
+    CREAS.push(Object.assign({},t,{kind:'pages',k,label:t.name,desc:(t.style!==t.name?t.style+' · ':'')+t.short,href:d?'/d/'+d.slug+'/':'',tag:t.name,img:i=>`/img/themes/${k}-${i}.webp?v=7`})); });
   // notre faire-part reel : les vrais lieux du couple, peints et animes (demo Yasmine & Karim)
   CREAS.push({kind:'pages',k:'yk',label:'Yasmine & Karim',desc:'Leurs vrais lieux, peints et animés : mairie, salle, ville',href:'/d/yasmine-karim/',tag:'Lieux réels peints',
     couple:'Yasmine & Karim',font:'"Great Vibes",cursive',color:'#2c2114',ey:'#8a6a2c',tx:'#5a4632',light:true,img:i=>`/img/reel/yk-${i}.webp`,
@@ -154,7 +154,7 @@
   // une carte par thème, avec ses deux formats : « scène par scène » (démo pages) et « grand tableau » (démo long)
   const card=(k)=>{ const t=THEMES[k], ds=DEMOS.find(x=>x.theme===k&&x.layout!=='long'), dl=DEMOS.find(x=>x.theme===k&&x.layout==='long');
     const m=document.createElement('div'); m.className='model'; m.dataset.theme=k; m.dataset.style=t.style;
-    m.innerHTML=`<a class="pic" href="/d/${esc((ds||dl).slug)}/" target="_blank" rel="noopener" aria-label="Ouvrir le faire-part ${esc(t.name)}"><img src="/img/themes/${k}-1.webp?v=6" alt="" loading="lazy"><img class="pic2" src="/img/themes/${k}-2.webp?v=6" alt="" loading="lazy" aria-hidden="true"><span class="cn" style="${esc(`font-family:${t.font};${t.italic?'font-style:italic;':''}${t.upper?'text-transform:uppercase;letter-spacing:.1em;font-size:19px;':''}`)}">${esc(t.couple)}</span></a><div class="meta"><div><h3>${esc(t.name)}</h3><p class="style">${esc(t.style+' · '+t.short)}</p></div>
+    m.innerHTML=`<a class="pic" href="/d/${esc((ds||dl).slug)}/" target="_blank" rel="noopener" aria-label="Ouvrir le faire-part ${esc(t.name)}"><img src="/img/themes/${k}-1.webp?v=7" alt="" loading="lazy"><img class="pic2" src="/img/themes/${k}-2.webp?v=7" alt="" loading="lazy" aria-hidden="true"><span class="cn" style="${esc(`font-family:${t.font};${t.italic?'font-style:italic;':''}${t.upper?'text-transform:uppercase;letter-spacing:.1em;font-size:19px;':''}`)}">${esc(t.couple)}</span></a><div class="meta"><div><h3>${esc(t.name)}</h3><p class="style">${esc(t.style+' · '+t.short)}</p></div>
       <div class="fmts">${ds?`<a href="/d/${esc(ds.slug)}/" target="_blank" rel="noopener"><b>Scène par scène</b><span>${esc(ds.couple)}</span></a>`:''}${dl?`<a href="/d/${esc(dl.slug)}/" target="_blank" rel="noopener"><b>Grand tableau</b><span>${esc(dl.couple)}</span></a>`:''}</div>
       <div class="acts"><a class="go" href="/creer/?theme=${esc(k)}">Composer →</a></div></div>`;
     models.appendChild(m); };
@@ -194,10 +194,10 @@
   opt($('cOpen'),OPENS,'op','',(b,o)=>{ b.className='op-card'; b.innerHTML=`<b>${o.name}</b><small>${o.sub}</small>`; });
   opt($('cReveal'),REVEALS,'rvl','',(b,o)=>{ b.className='op-card'; b.innerHTML=`<b>${o.name}</b><small>${o.sub}</small>`; });
   $('cReveal').addEventListener('click',e=>{ if(e.target.closest('button')) $('cpScroll').scrollTo({top:0,behavior:'smooth'}); });
-  opt($('cStyles'),KEYS,'k','',(b,k)=>{ const t=THEMES[k]; b.className='th'; b.innerHTML=`<span style="background-image:url('/img/themes/${k}-1.webp?v=6')"></span>${esc(t.name)}`; });
+  opt($('cStyles'),KEYS,'k','',(b,k)=>{ const t=THEMES[k]; b.className='th'; b.innerHTML=`<span style="background-image:url('/img/themes/${k}-1.webp?v=7')"></span>${esc(t.name)}`; });
   // les deux formats, annoncés dès le début : scène par scène (un événement par écran) ou grand tableau (un seul tableau qu'on descend)
   const FMTS=[{id:'scenes',name:'Scène par scène',sub:'Un événement par écran, vos lieux en plein écran'},{id:'long',name:'Grand tableau',sub:'Un seul tableau qu’on descend, vos lieux dans des cadres peints'}];
-  opt($('cFmt'),FMTS,'fmt','',(b,o)=>{ b.className='op-card fmt'; b.innerHTML=`<i style="background-image:url('${o.id==='long'?'/img/reel/long-nuits.webp':'/img/themes/nuits-2.webp?v=6'}')"></i><b>${o.name}</b><small>${o.sub}</small>`; });
+  opt($('cFmt'),FMTS,'fmt','',(b,o)=>{ b.className='op-card fmt'; b.innerHTML=`<i style="background-image:url('${o.id==='long'?'/img/reel/long-nuits.webp':'/img/themes/nuits-2.webp?v=7'}')"></i><b>${o.name}</b><small>${o.sub}</small>`; });
   const PLANSUB={essentiel:'2 événements, lieux de notre bibliothèque',signature:'+ votre lieu peint d’après photo, un lien par famille',couture:'tout sur mesure, on vous écrit'};
   opt($('cPlan'),Object.keys(PLANS),'plan','',(b,id)=>{ b.className='op-card'; b.innerHTML=`<b>${PLANS[id].name} · ${PLANS[id].price}</b><small>${PLANSUB[id]}</small>`; });
   $('cPlan').addEventListener('click',e=>{ if(e.target.closest('button')) C.planPicked=true; },true); // avant le clic du bouton (capture) : un choix de la main de l'utilisateur n'est plus changé
@@ -268,7 +268,7 @@
       $('wz2Sub').textContent=long?'Dans le grand tableau, chaque événement a son cadre peint : choisissez le lieu qui s’y affiche (notre bibliothèque, ou votre photo), ou laissez le cadre sans lieu.':'Pour chaque événement : un écran simple (votre texte sur le fond du tableau), ou une scène de votre lieu, dessinée dans le thème.';
       document.querySelectorAll('#cStory [data-bg="simple"]').forEach(b=>b.innerHTML=long?'Sans lieu<small>Le cadre peint du thème</small>':'Écran simple<small>Texte sur le fond</small>');
       document.querySelectorAll('#cStory [data-bg="scene"]').forEach(b=>b.innerHTML=long?'Un lieu<small>Dans le cadre</small>':'Scène<small>Votre lieu dessiné</small>'); }
-    $('cFmt').querySelectorAll('button').forEach(b=>{ b.firstChild.style.backgroundImage=`url('${b.dataset.id==='long'?`/img/reel/long-${C.k}.webp`:`/img/themes/${C.k}-2.webp?v=6`}')`; });
+    $('cFmt').querySelectorAll('button').forEach(b=>{ b.firstChild.style.backgroundImage=`url('${b.dataset.id==='long'?`/img/reel/long-${C.k}.webp`:`/img/themes/${C.k}-2.webp?v=7`}')`; });
     $('cStory').querySelectorAll('li.ev').forEach(l=>{ const e=C.ev[+l.dataset.i];
       l.querySelectorAll('[data-bg]').forEach(b=>b.setAttribute('aria-pressed',b.dataset.bg===e.bg));
       l.querySelector('.lieux').hidden=e.bg!=='scene';
@@ -293,7 +293,7 @@
       // un numéro = scène du thème ; un nom = lieu de la bibliothèque, ou « fond » pour un écran simple
       // calque : le sujet détouré est posé entier au bas de l'écran sur le fond du thème (même rendu que le moteur)
       const hasCal=((window.SCEAU_CALQUES||{})[C.k]||[]).includes(String(img));
-      const src=hasCal?`/img/lieux/${C.k}-fond.webp`:typeof img==='number'?`/img/themes/${C.k}-${img}.webp?v=6`:`/img/lieux/${C.k}-${img}.webp`;
+      const src=hasCal?`/img/lieux/${C.k}-fond.webp`:typeof img==='number'?`/img/themes/${C.k}-${img}.webp?v=7`:`/img/lieux/${C.k}-${img}.webp`;
       const sub=hasCal?`/img/calques/${C.k}-${img}.webp?v=7`:'';
       return {lt,c,html:h=>`<section class="pv-sc${lt?' light':''}" data-img="${esc(src)}" data-sub="${esc(sub)}" style="${esc(extra||'')}">${h(c)}</section>`}; };
     const pages=[], rv=C.rvl!=='non'?C.rvl:null;

diff --git a/business/landing/index.html b/business/landing/index.html
@@ -80,7 +80,7 @@
       <p>Même thème, même prix. Vous choisissez le format au début, et vous pouvez ouvrir les deux en exemple.</p>
     </div>
     <div class="fmt2">
-      <a href="/d/salma-rayan/" target="_blank" rel="noopener"><img src="/img/themes/nuits-2.webp?v=6" alt="" loading="lazy"><div><b>Scène par scène</b><p>Un événement par écran. La mairie, la salle, le jardin : chaque lieu dessiné en plein écran, le texte posé dessus, et on glisse de l'un à l'autre.</p><em>Ouvrir l'exemple →</em></div></a>
+      <a href="/d/salma-rayan/" target="_blank" rel="noopener"><img src="/img/themes/nuits-2.webp?v=7" alt="" loading="lazy"><div><b>Scène par scène</b><p>Un événement par écran. La mairie, la salle, le jardin : chaque lieu dessiné en plein écran, le texte posé dessus, et on glisse de l'un à l'autre.</p><em>Ouvrir l'exemple →</em></div></a>
       <a href="/d/nour-ilyes/" target="_blank" rel="noopener"><img src="/img/reel/long-nuits.webp" alt="" loading="lazy"><div><b>Grand tableau</b><p>Un seul tableau peint qu'on descend du doigt : le décor se fond dans vos informations, vos lieux apparaissent dans des cadres peints.</p><em>Ouvrir l'exemple →</em></div></a>
     </div>
   </div>

diff --git a/business/site/index.html b/business/site/index.html
@@ -80,7 +80,7 @@
       <p>Même thème, même prix. Vous choisissez le format au début, et vous pouvez ouvrir les deux en exemple.</p>
     </div>
     <div class="fmt2">
-      <a href="/d/salma-rayan/" target="_blank" rel="noopener"><img src="/img/themes/nuits-2.webp?v=6" alt="" loading="lazy"><div><b>Scène par scène</b><p>Un événement par écran. La mairie, la salle, le jardin : chaque lieu dessiné en plein écran, le texte posé dessus, et on glisse de l'un à l'autre.</p><em>Ouvrir l'exemple →</em></div></a>
+      <a href="/d/salma-rayan/" target="_blank" rel="noopener"><img src="/img/themes/nuits-2.webp?v=7" alt="" loading="lazy"><div><b>Scène par scène</b><p>Un événement par écran. La mairie, la salle, le jardin : chaque lieu dessiné en plein écran, le texte posé dessus, et on glisse de l'un à l'autre.</p><em>Ouvrir l'exemple →</em></div></a>
       <a href="/d/nour-ilyes/" target="_blank" rel="noopener"><img src="/img/reel/long-nuits.webp" alt="" loading="lazy"><div><b>Grand tableau</b><p>Un seul tableau peint qu'on descend du doigt : le décor se fond dans vos informations, vos lieux apparaissent dans des cadres peints.</p><em>Ouvrir l'exemple →</em></div></a>
     </div>
   </div>

diff --git a/business/tools/vignettes.py b/business/tools/vignettes.py
@@ -1,0 +1,34 @@
+"""Vignette d'une scène en calques : le fond calme du thème (img/hd/<thème>-fond) avec le sujet détouré
+(img/calques/<thème>-<clé>) posé entier, toute la largeur, au bas de l'image, comme le moteur l'affiche (règle 10b).
+
+Remplace img/hd/<thème>-<clé>.webp et img/themes/<thème>-<clé>.webp : la peinture d'origine gardait parfois une
+bande sombre collée sur la scène (« c'est coupé, c'est moche » sur la carte « Scène par scène »), alors que le
+faire-part ne la montre plus.
+
+Usage : python3 business/tools/vignettes.py nuits-2 [bollywood-1 ...]
+"""
+import os, sys
+from PIL import Image
+
+IMG = os.path.join(os.path.dirname(os.path.dirname(os.path.abspath(__file__))), 'landing', 'img')
+
+
+def vignette(key):
+    theme, n = key.rsplit('-', 1)
+    fond = Image.open(os.path.join(IMG, 'hd', f'{theme}-fond.webp')).convert('RGB')
+    sub = Image.open(os.path.join(IMG, 'calques', f'{key}.webp')).convert('RGBA')
+    W, H = fond.size
+    if sub.width != W:
+        sub = sub.resize((W, round(sub.height * W / sub.width)), Image.LANCZOS)
+    if sub.height > H:  # jamais de zoom : le sujet tient en hauteur, sinon on le laisse tel quel et on coupe le haut
+        sub = sub.crop((0, sub.height - H, W, sub.height))
+    im = fond.copy()
+    im.paste(sub, (0, H - sub.height), sub)
+    im.save(os.path.join(IMG, 'hd', f'{key}.webp'), 'WEBP', quality=80, method=6)
+    im.resize((540, 954), Image.LANCZOS).save(os.path.join(IMG, 'themes', f'{key}.webp'), 'WEBP', quality=82, method=6)
+    print(key, 'ok', flush=True)
+
+
+if __name__ == '__main__':
+    for k in sys.argv[1:] or ['nuits-2']:
+        vignette(k)

diff --git a/CLAUDE.md b/CLAUDE.md
@@ -56,6 +56,9 @@ faire-part, vitrine, aperçus, images d'aperçu WhatsApp (og.jpg), images géné
     Pas de `will-change: transform` sur le sujet : dans un cadre collant masqué, Chromium ne le repeignait pas après un saut.
     `build-site.py` liste les calques existants (`inv.calques`, `window.SCEAU_CALQUES`) ; sans calque, une scène garde
     l'ancien rendu plein cadre. Un calque échoué se régénère, on ne réduit pas le sujet pour le faire tenir.
+    La **vignette** d'une scène en calques (`img/themes` et `img/hd`, cartes de la vitrine, carrousel, configurateur) se
+    recompose avec `business/tools/vignettes.py <thème>-<clé>` (fond + sujet) : la peinture d'origine pouvait garder une
+    bande sombre collée sur la scène (« c'est coupé, c'est moche » sur la carte « Scène par scène »).
 
 ## Ce qui tombe : les particules
 
